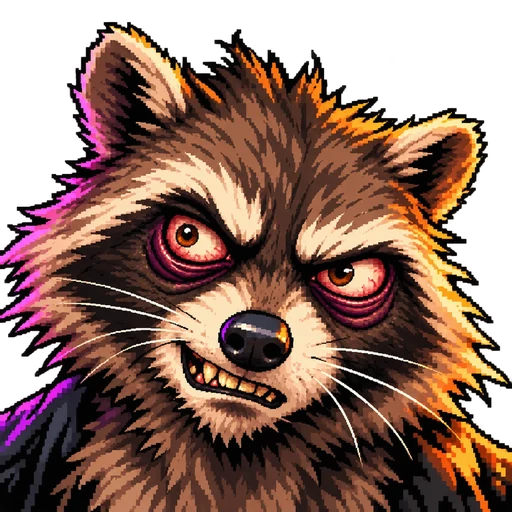
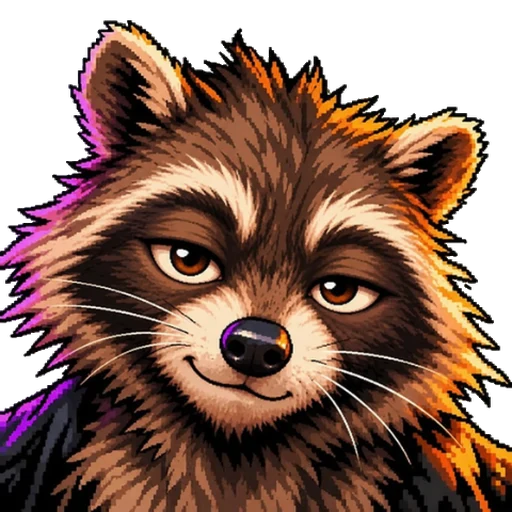
Raccoon art: calm and sneaky moods
Calm (trouble 0) and sneaky (1-2) made from the feral art with Canva's image
editor, background removed, 512px WebP. README says where the faces live.

Claude-Session: https://claude.ai/code/session_013MUHFzQFKKNPYN2oAnGEQF

diff --git a/README.md b/README.md
@@ -53,6 +53,10 @@ any time. Three tabs:
   minute, and every 5 extra minutes a message pops up: it's into your stash, then the
   stash is gone, then it's raiding your fridge, and so on. The messages are the
   `COON_CHAOS` list in `index.html` (`{name}` is the raccoon's name); edit them freely.
+  The raccoon's face changes with the trouble too: calm at first, sneaky once it's into
+  your stash (+5 and +10), feral from the fridge on (+15). The three faces are
+  `icons/raccoon/calm.webp`, `sneaky.webp` and `feral.webp` (square, transparent, 512px);
+  swap in new art with the same names.
 - **You choose**: any length from 1 minute to 4 hours, with −5 / +5 buttons.
 - **Plan**: line up 5-minute raids like jobs (or pull them in with **From Today**).
   Six raids make half an hour, then a 5-minute break; up to 12 raids, an hour. Tap a
